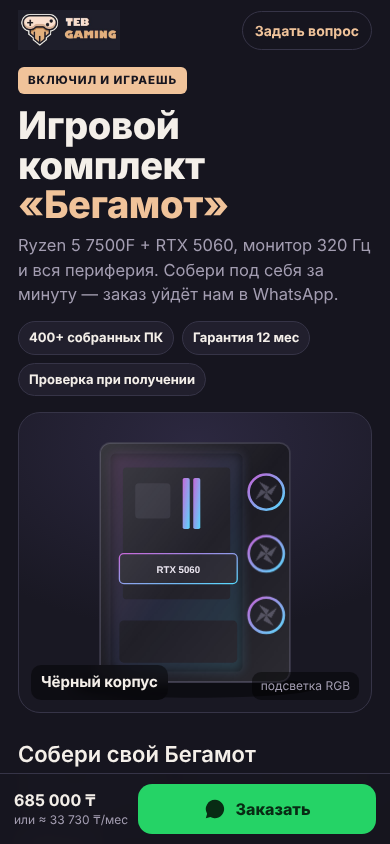
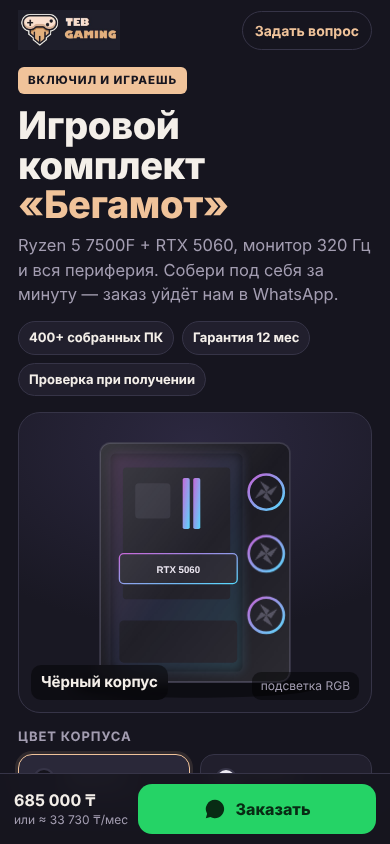
Лендинг: выбор цвета сразу под фото
Claude-Session: https://claude.ai/code/session_019ostPjN9vsqAF2cH76egG4

Changed region(s): [[0.0308, 0.8626, 0.6462, 0.9242]]

diff --git a/begemot/index.html b/begemot/index.html
@@ -164,7 +164,7 @@ footer b{color:var(--fg)}
           <rect x="118" y="62" width="122" height="150" rx="4" fill="#1c1b24" id="mb"/>
           <rect x="132" y="80" width="40" height="40" rx="4" fill="#2b2a35"/>
           <rect x="186" y="74" width="8" height="58" rx="2" fill="url(#rg)"/><rect x="198" y="74" width="8" height="58" rx="2" fill="url(#rg)"/>
-          <rect x="114" y="160" width="134" height="34" rx="5" fill="#26252f" stroke="url(#rg)" stroke-width="1.5"/>
+          <rect id="gpuBox" x="114" y="160" width="134" height="34" rx="5" fill="#26252f" stroke="url(#rg)" stroke-width="1.5"/>
           <text x="181" y="182" text-anchor="middle" font-family="Manrope,sans-serif" font-size="11" font-weight="800" fill="#e9e4ef" id="gpuLabel">RTX 5060</text>
           <rect x="114" y="236" width="134" height="48" rx="5" fill="#1a1922"/>
           <!-- fans front -->
@@ -179,6 +179,8 @@ footer b{color:var(--fg)}
       <div class="cap"><b id="capColor">Чёрный корпус</b><small id="capNote">подсветка RGB</small></div>
     </div>
   </div>
+
+  <div class="grp" style="margin-top:14px"><div class="grp-h"><b>Цвет корпуса</b></div><div class="sw" id="colors"></div></div>
 
   <section id="build">
     <h2>Собери свой Бегамот</h2>
@@ -309,7 +311,8 @@ function btn(o,on,attrs){var p=o.p===0?(o.id==='no'?'':'включено'):(o.p>
 function renderGroups(){
   var h='<div class="grp"><div class="grp-h"><b>Комплект</b></div><div class="opts">'+KITS.map(function(k){
     return '<button type="button" class="opt" aria-pressed="'+(S.kit===k.id)+'" data-kit="'+k.id+'"><span style="min-width:0"><span class="n">'+k.name+(k.id==='setup'?'<span class="hot">хит</span>':'')+'</span><span class="d">'+k.d+'</span></span><span class="p">'+nf(k.price)+' ₸</span></button>'}).join('')+'</div></div>';
-  GROUPS.forEach(function(g){if(!vis(g))return;var cur=opt(g,S[g.id]);
+  var cg=GROUPS[0];document.getElementById('colors').innerHTML=cg.opts.map(function(o){return btn(o,S.color===o.id,'data-g="color" data-o="'+o.id+'" data-color')}).join('');
+  GROUPS.forEach(function(g){if(!vis(g)||g.id==='color')return;var cur=opt(g,S[g.id]);
     h+='<div class="grp"><div class="grp-h"><b>'+g.t+'</b>'+(cur.p?'<small>'+(cur.p>0?'+':'−')+nf(Math.abs(cur.p))+' ₸</small>':'')+'</div><div class="'+(g.swatch?'sw':'opts')+'">'+
       g.opts.map(function(o){return btn(o,S[g.id]===o.id,'data-g="'+g.id+'" data-o="'+o.id+'"'+(g.swatch?' data-color':''))}).join('')+'</div></div>'});
   document.getElementById('groups').innerHTML=h}
@@ -341,7 +344,7 @@ function renderStage(){var white=S.color==='white';
   document.getElementById('shell').setAttribute('fill',white?'#eceaf2':'#15141c');document.getElementById('shell').setAttribute('stroke',white?'#cfcbd9':'#3a3848');
   document.getElementById('inner').setAttribute('fill',white?'#e3e0ea':'#0b0a10');document.getElementById('mb').setAttribute('fill',white?'#d6d2de':'#1c1b24');
   document.getElementById('gpuLabel').textContent=opt(GROUPS[1],S.gpu).n.replace(/ \d+ ГБ/,'');
-  document.getElementById('gpuLabel').setAttribute('fill',white?'#2a2838':'#e9e4ef');
+  document.getElementById('gpuLabel').setAttribute('fill','#e9e4ef');document.getElementById('gpuBox').setAttribute('fill','#26252f');
   document.getElementById('aio').setAttribute('opacity',S.cool==='aio'?'1':'0');
   document.getElementById('capColor').textContent=white?'Белый корпус':'Чёрный корпус';
   var v=VIDEOS[S.color],el=document.getElementById('vid');
@@ -365,6 +368,7 @@ function renderTotals(){var t=total(),mo=Math.round(t*KASPI_K/24/10)*10;
   document.querySelectorAll('[data-wa]').forEach(function(a){a.href=h;a.target='_blank';a.rel='noopener'});
   document.querySelectorAll('[data-wa-plain]').forEach(function(a){a.href='https://wa.me/'+PHONE+'?text='+encodeURIComponent(waText(true));a.target='_blank';a.rel='noopener'})}
 function render(){renderGroups();renderFps();renderFit();renderSpec();renderStage();renderTotals()}
+document.getElementById('colors').addEventListener('click',function(e){var b=e.target.closest('button');if(!b)return;S.color=b.dataset.o;render()});
 document.getElementById('groups').addEventListener('click',function(e){var b=e.target.closest('button');if(!b)return;
   if(b.dataset.kit)S.kit=b.dataset.kit;else if(b.dataset.g)S[b.dataset.g]=b.dataset.o;
   render()});
